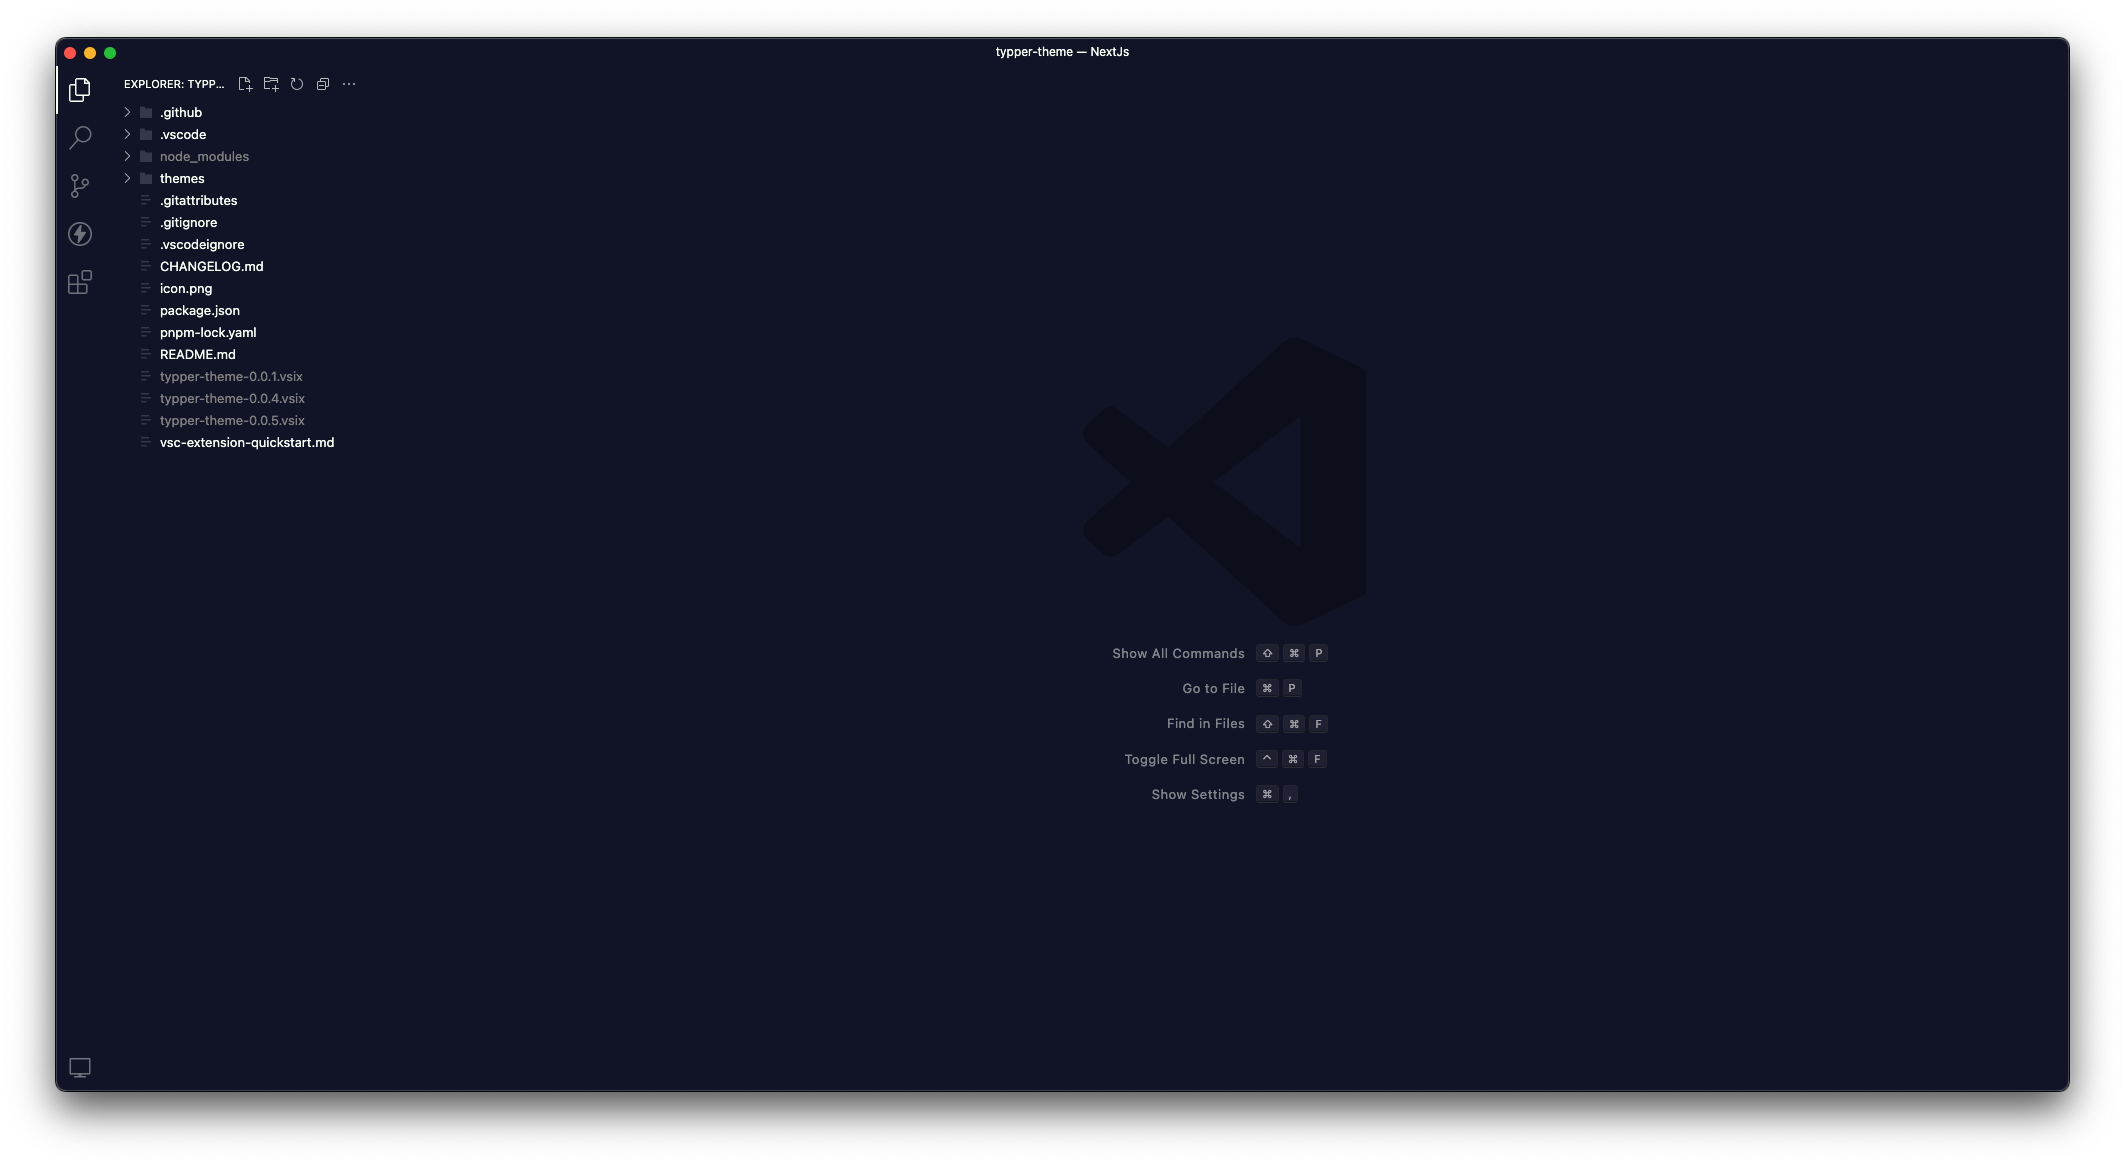
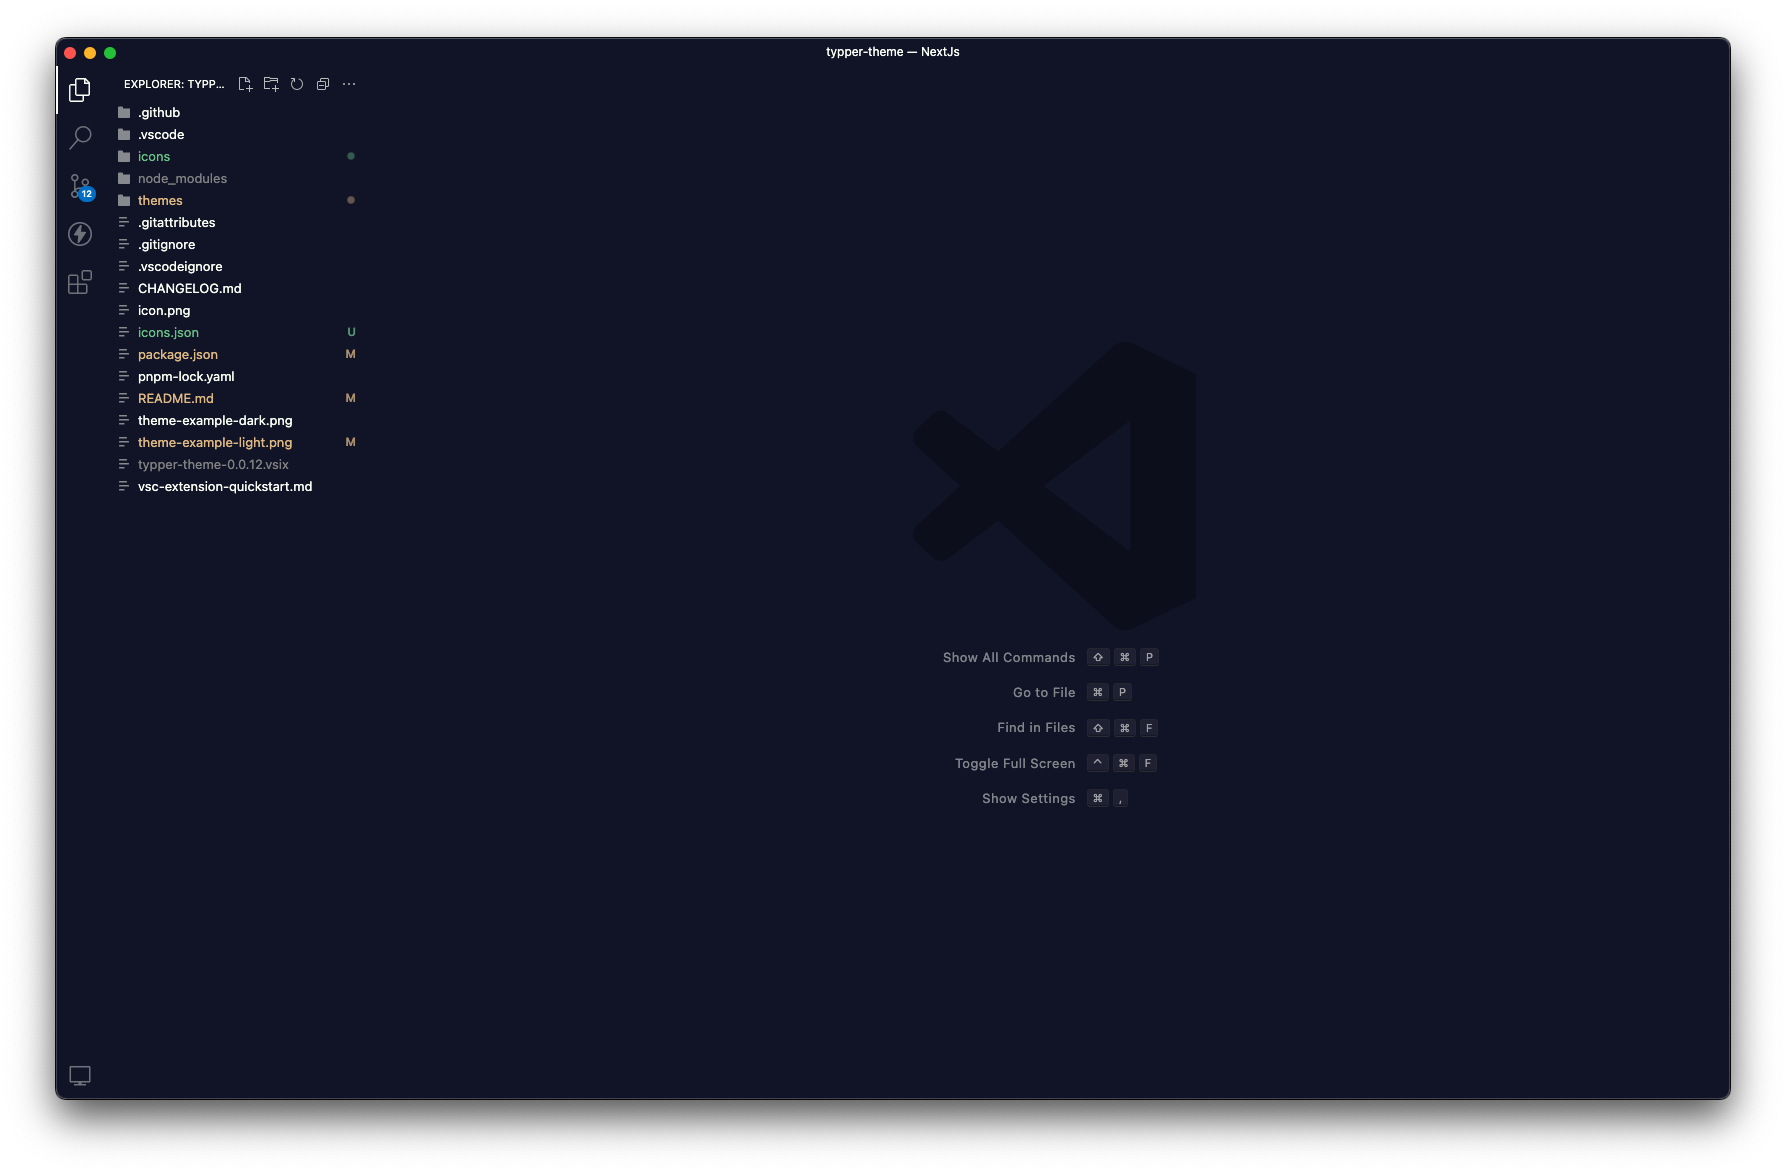
Update Typper theme version and add repository and scripts

diff --git a/README.md b/README.md
@@ -19,7 +19,7 @@ For an even more immersive experience, we recommend combining the Typper theme w
 
 ```json
 {
-  "workbench.iconTheme": "minimal-icons",
+  "workbench.iconTheme": "typper-icons",
   "workbench.colorTheme": "Typper",
   "window.commandCenter": false,
   "workbench.layoutControl.enabled": false,
